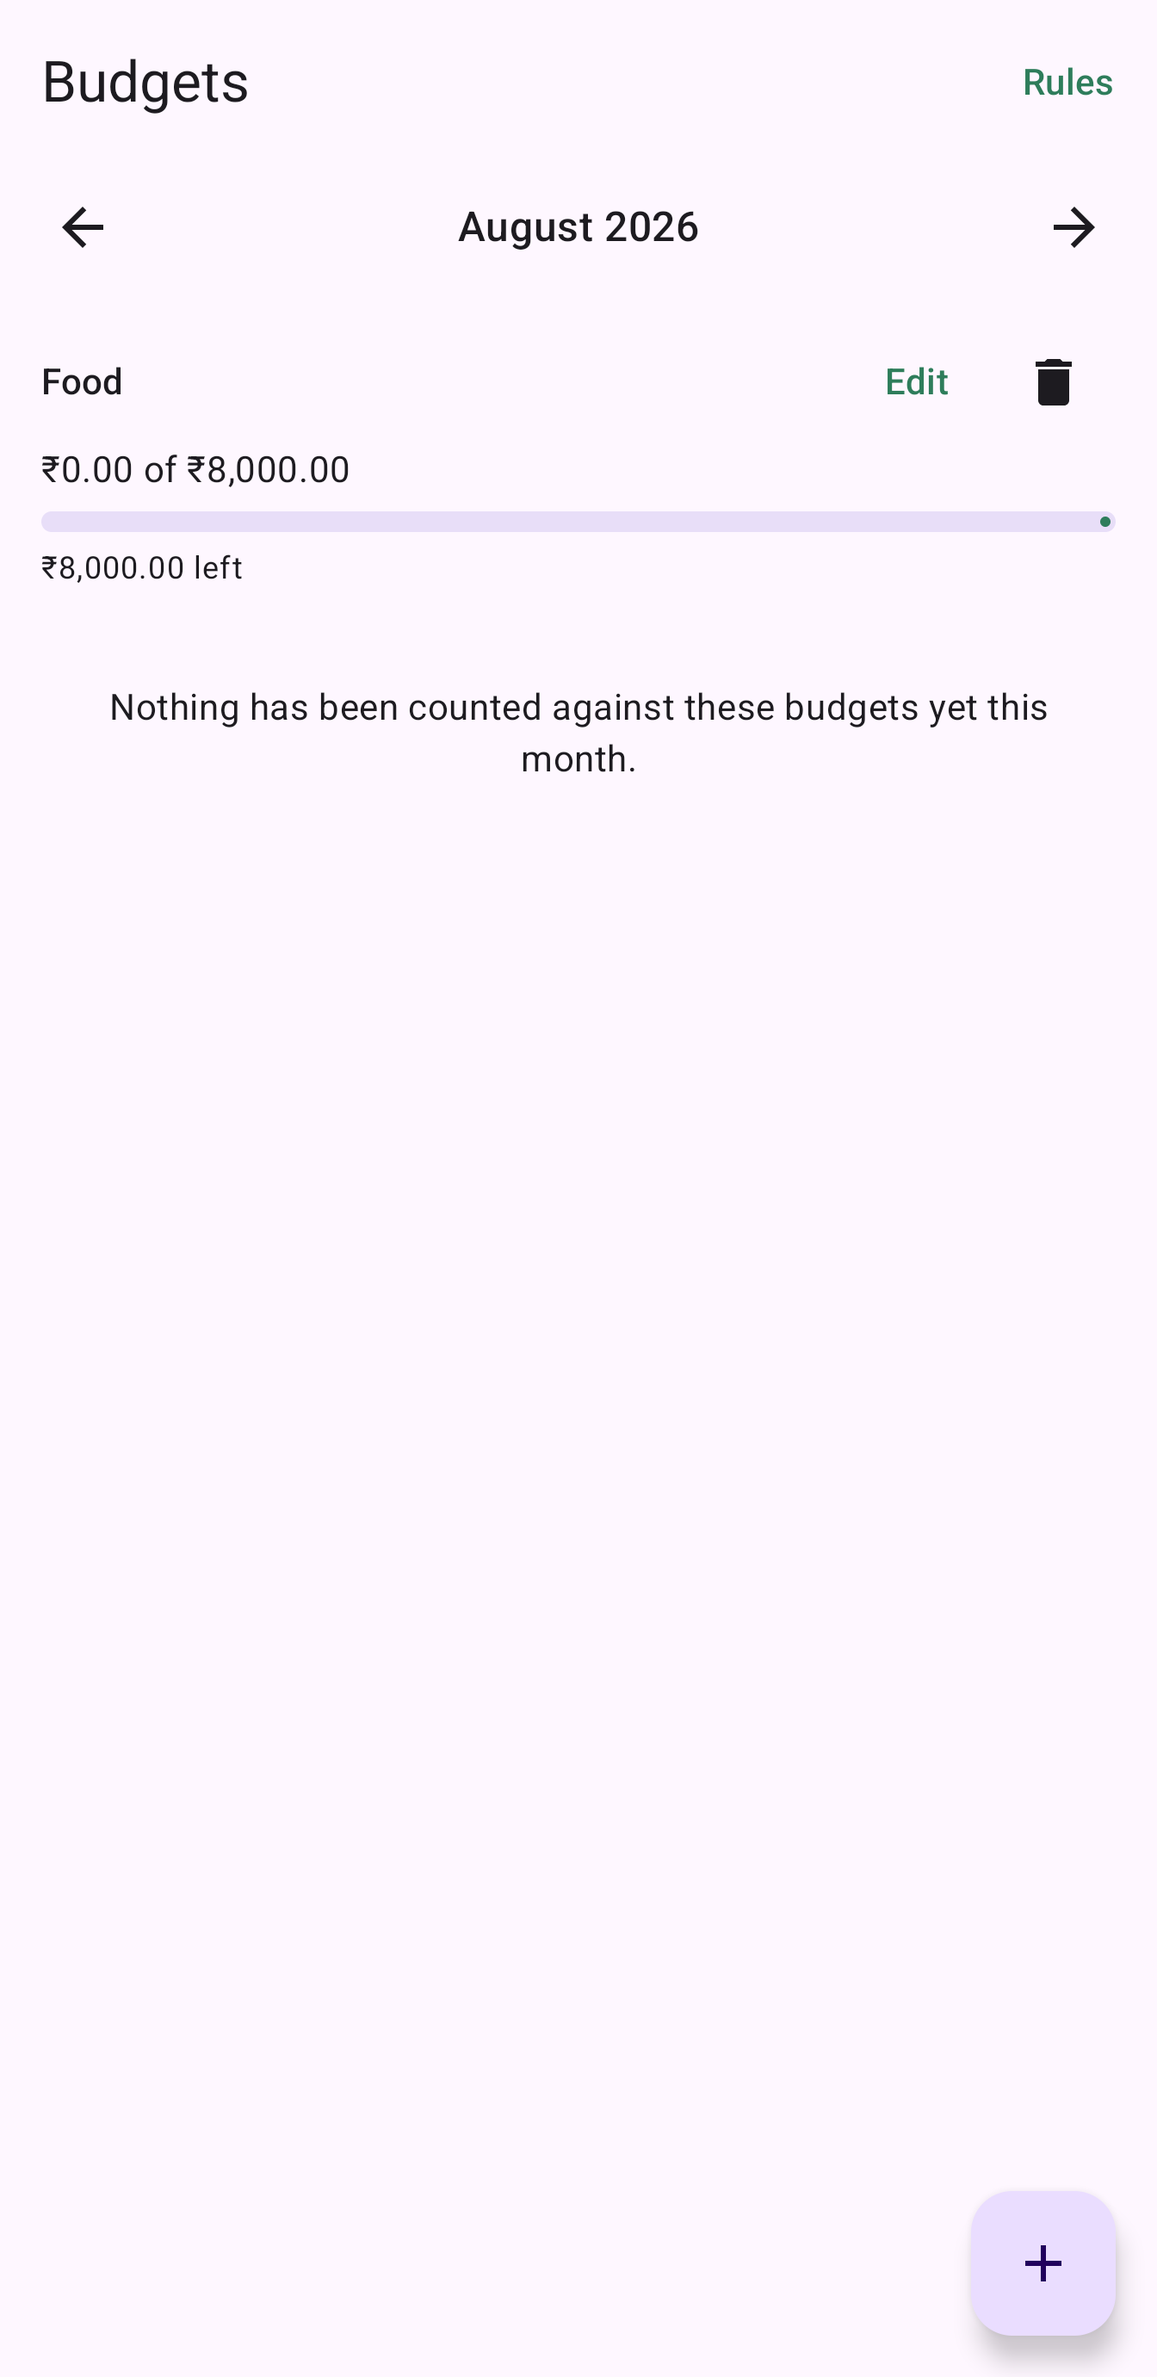
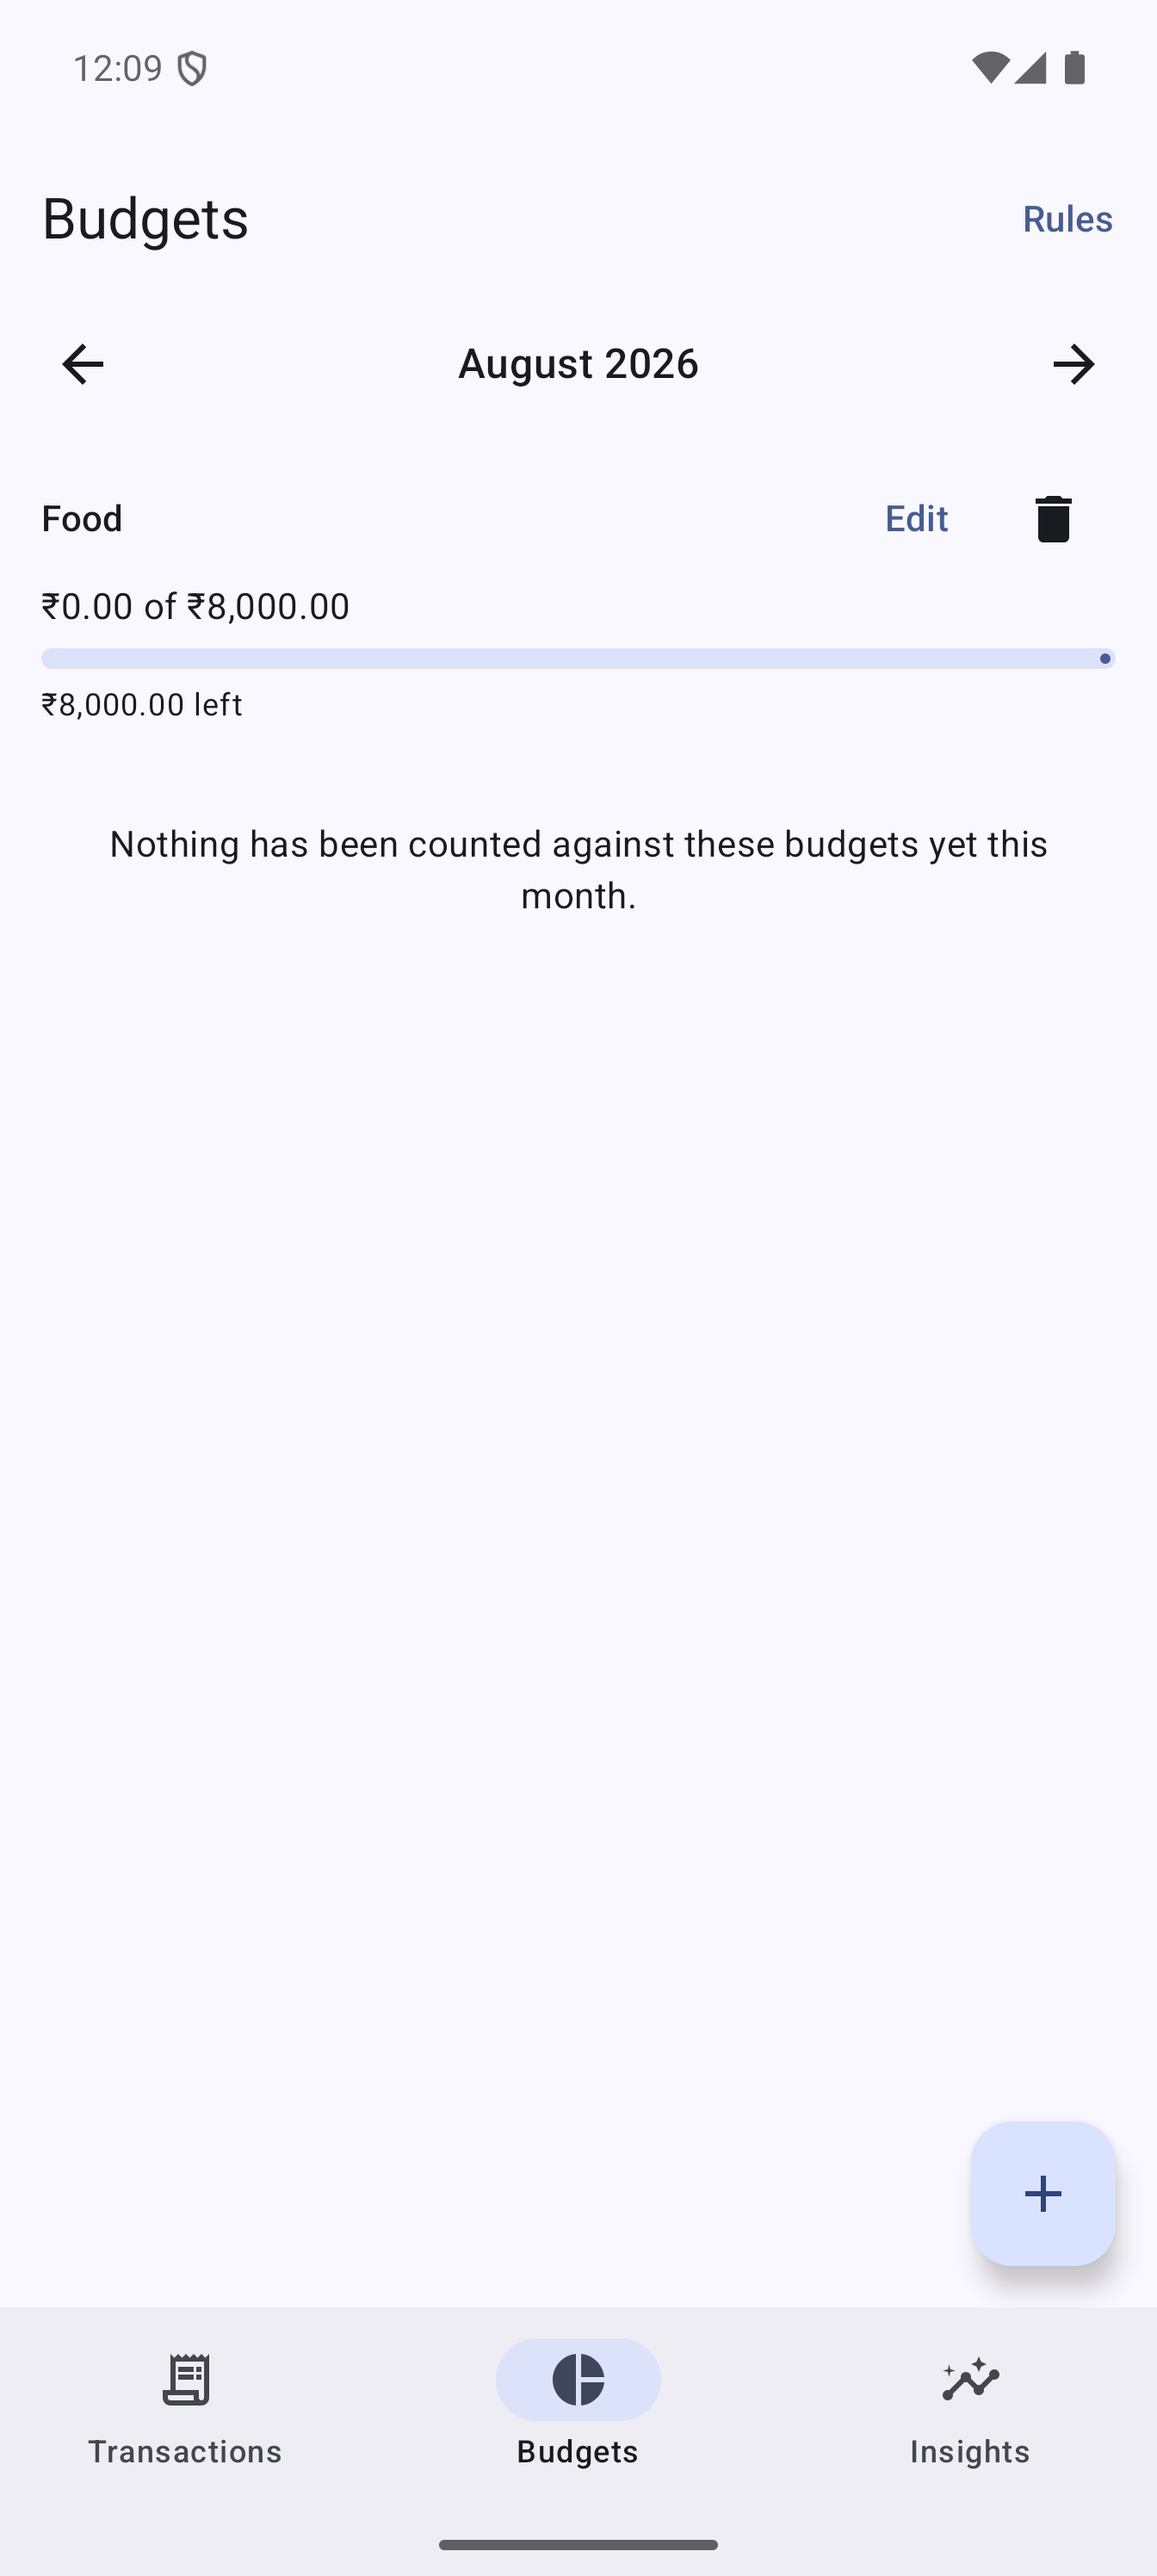
docs(budgets): regenerate the five budgets screenshots as a set
The previous commit left these alone on purpose: four are pinned to data
states docs/budgets-design.md cites by name, so they wanted recreating
together rather than one at a time.

Each state was seeded straight into the app database and its figures
checked against observeBudgetsWithSpend and observeUncategorisedSpend
before capturing, so the numbers match the old images exactly -- 4,300
of 8,000, the near-limit row at 94%, the limit-reached row, 340 over,
and the 6,200 uncategorised total. The claim in 2.2 that the two
zero-spend captures have pixel-identical budget rows holds on the new
pair: they are byte-identical from the app bar down through the whole
Food row, and differ from the next row on.

Two things beyond the bar changed, both the app's own doing. The rows
sort food, groceries, health, transport now, because nothing sorts
between ORDER BY b.category_id ASC and the screen -- the old image's
order can only have come from user-created categories. And the primary
slot is blue rather than green, dynamic colour off the emulator
wallpaper, which is what the captures regenerated last commit are on, so
the directory is back on one palette. The semantic near-limit and over
colours are untouched and stay clearly distinct from a blue primary,
which is the argument 2.5 makes for keeping them out of colorScheme.

budgets-empty-with-uncategorised.png was referenced nowhere. It is the
third state of the 2.2 argument -- real money, no budget rows to attach
[…]

diff --git a/docs/budgets-design.md b/docs/budgets-design.md
@@ -427,6 +427,14 @@ Rendered, the two states are
 [`budgets-all-uncategorised.png`](screenshots/budgets-all-uncategorised.png)
 — the budget rows are pixel-identical and everything below them differs,
 which is the whole point.
+[`budgets-empty-with-uncategorised.png`](screenshots/budgets-empty-with-uncategorised.png)
+is the third state, and it makes the argument more sharply than either:
+there are no budgets at all, so nothing on screen is attached to a budget
+row, and the uncategorised figure is the only thing separating a month
+holding ₹6,200 of real spending from a blank one.
+`BudgetsUiState.Empty` carries that figure for exactly this reason — a
+second flow the screen consulted only when it had budgets to show would
+have gone quiet here, on the state that needs it most.
 [`budget-editor-zero-limit-rejected.png`](screenshots/budget-editor-zero-limit-rejected.png)
 shows the ₹0 limit being refused at creation, per §2.1.
 
